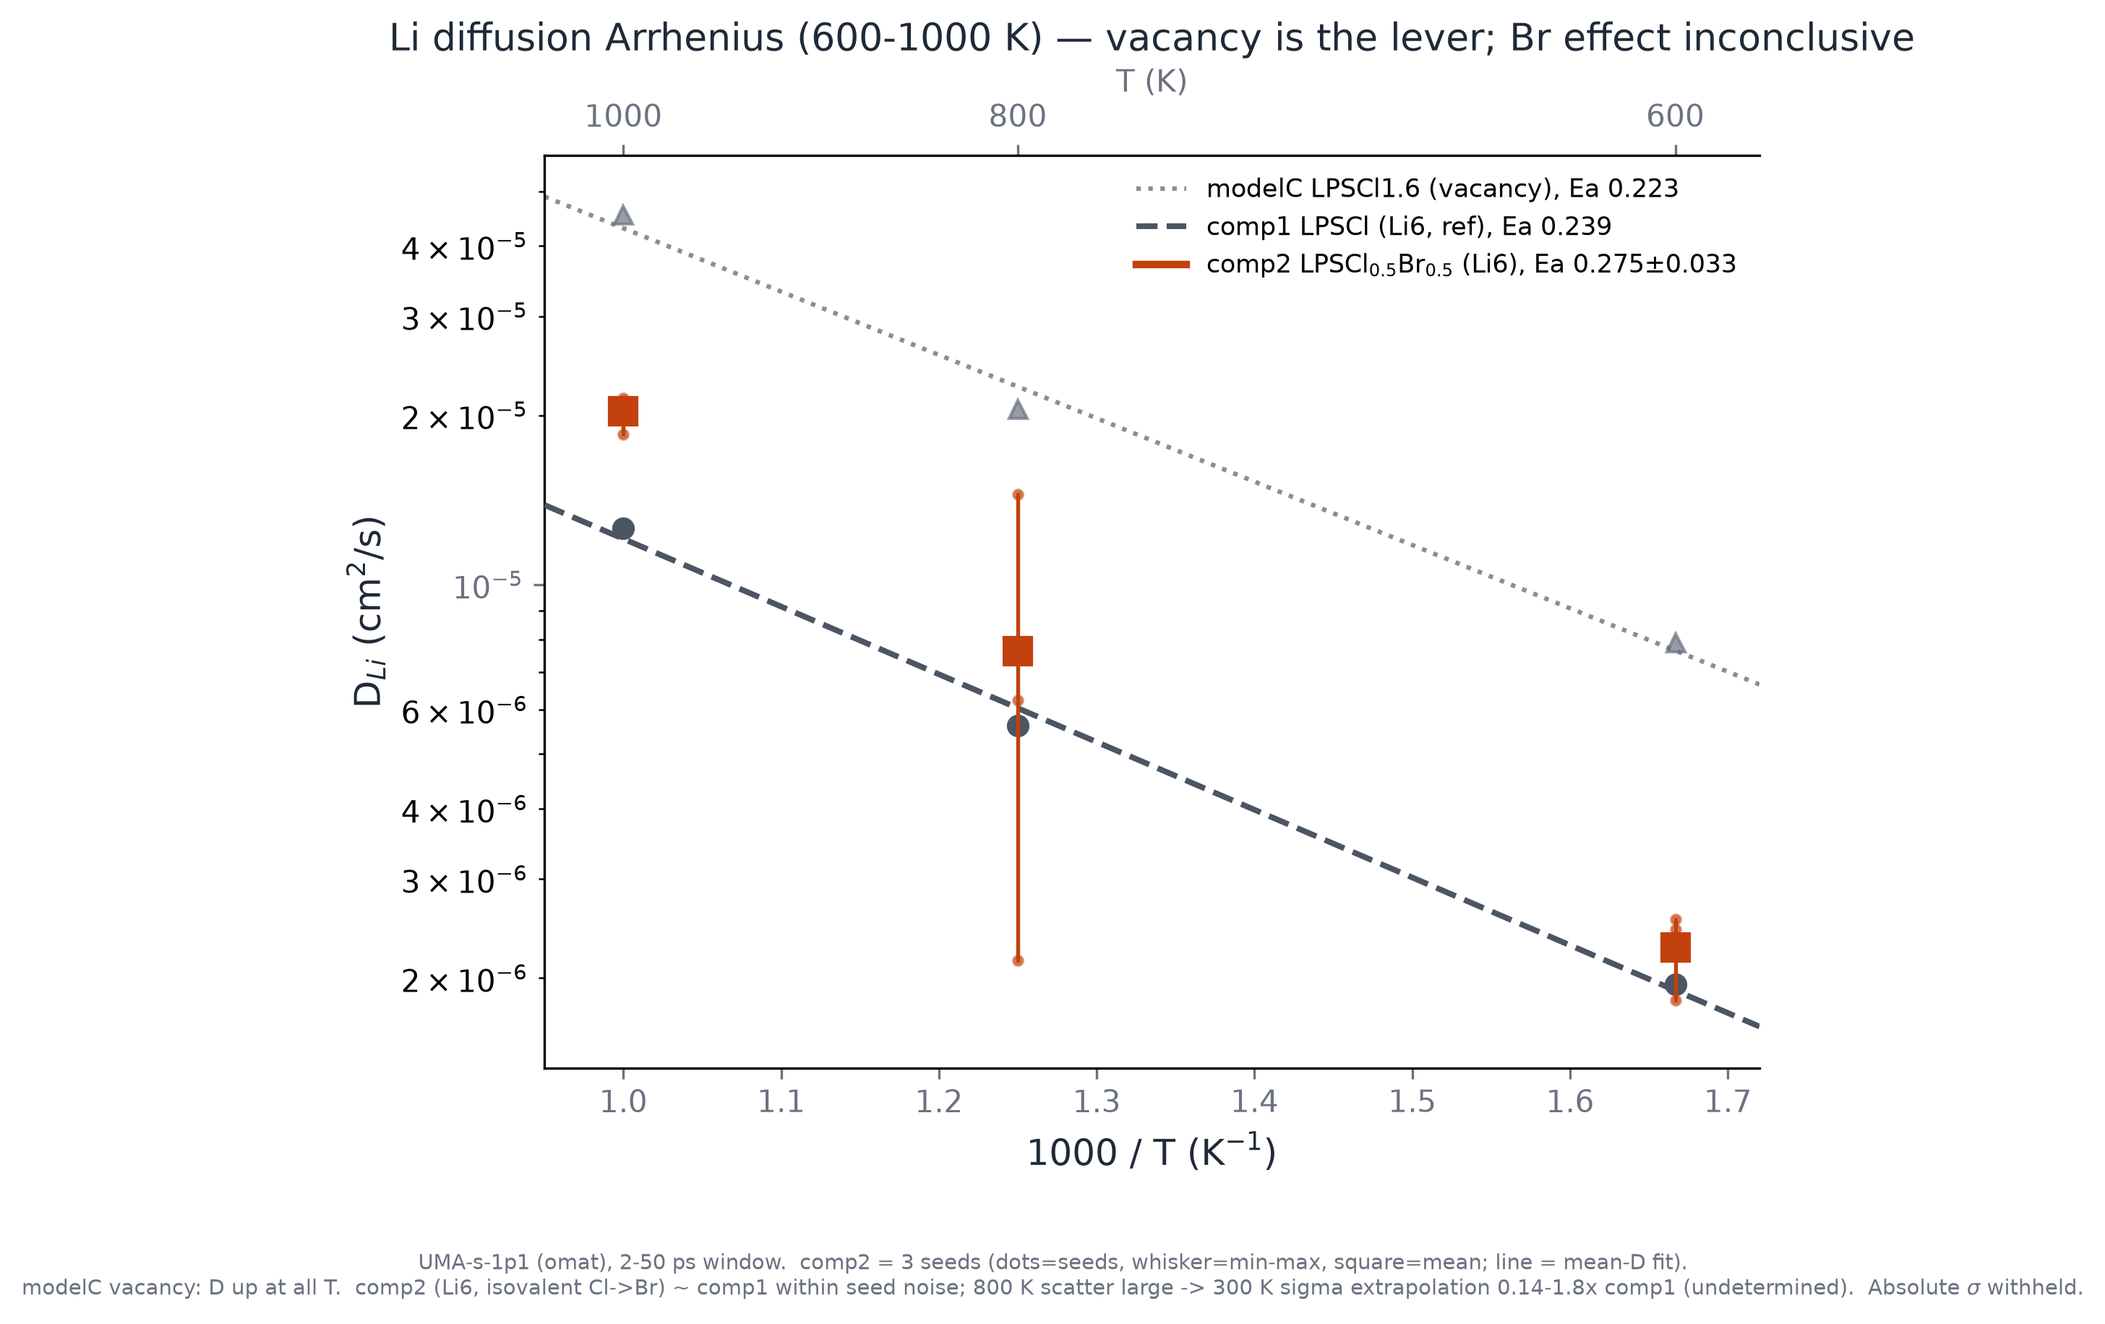
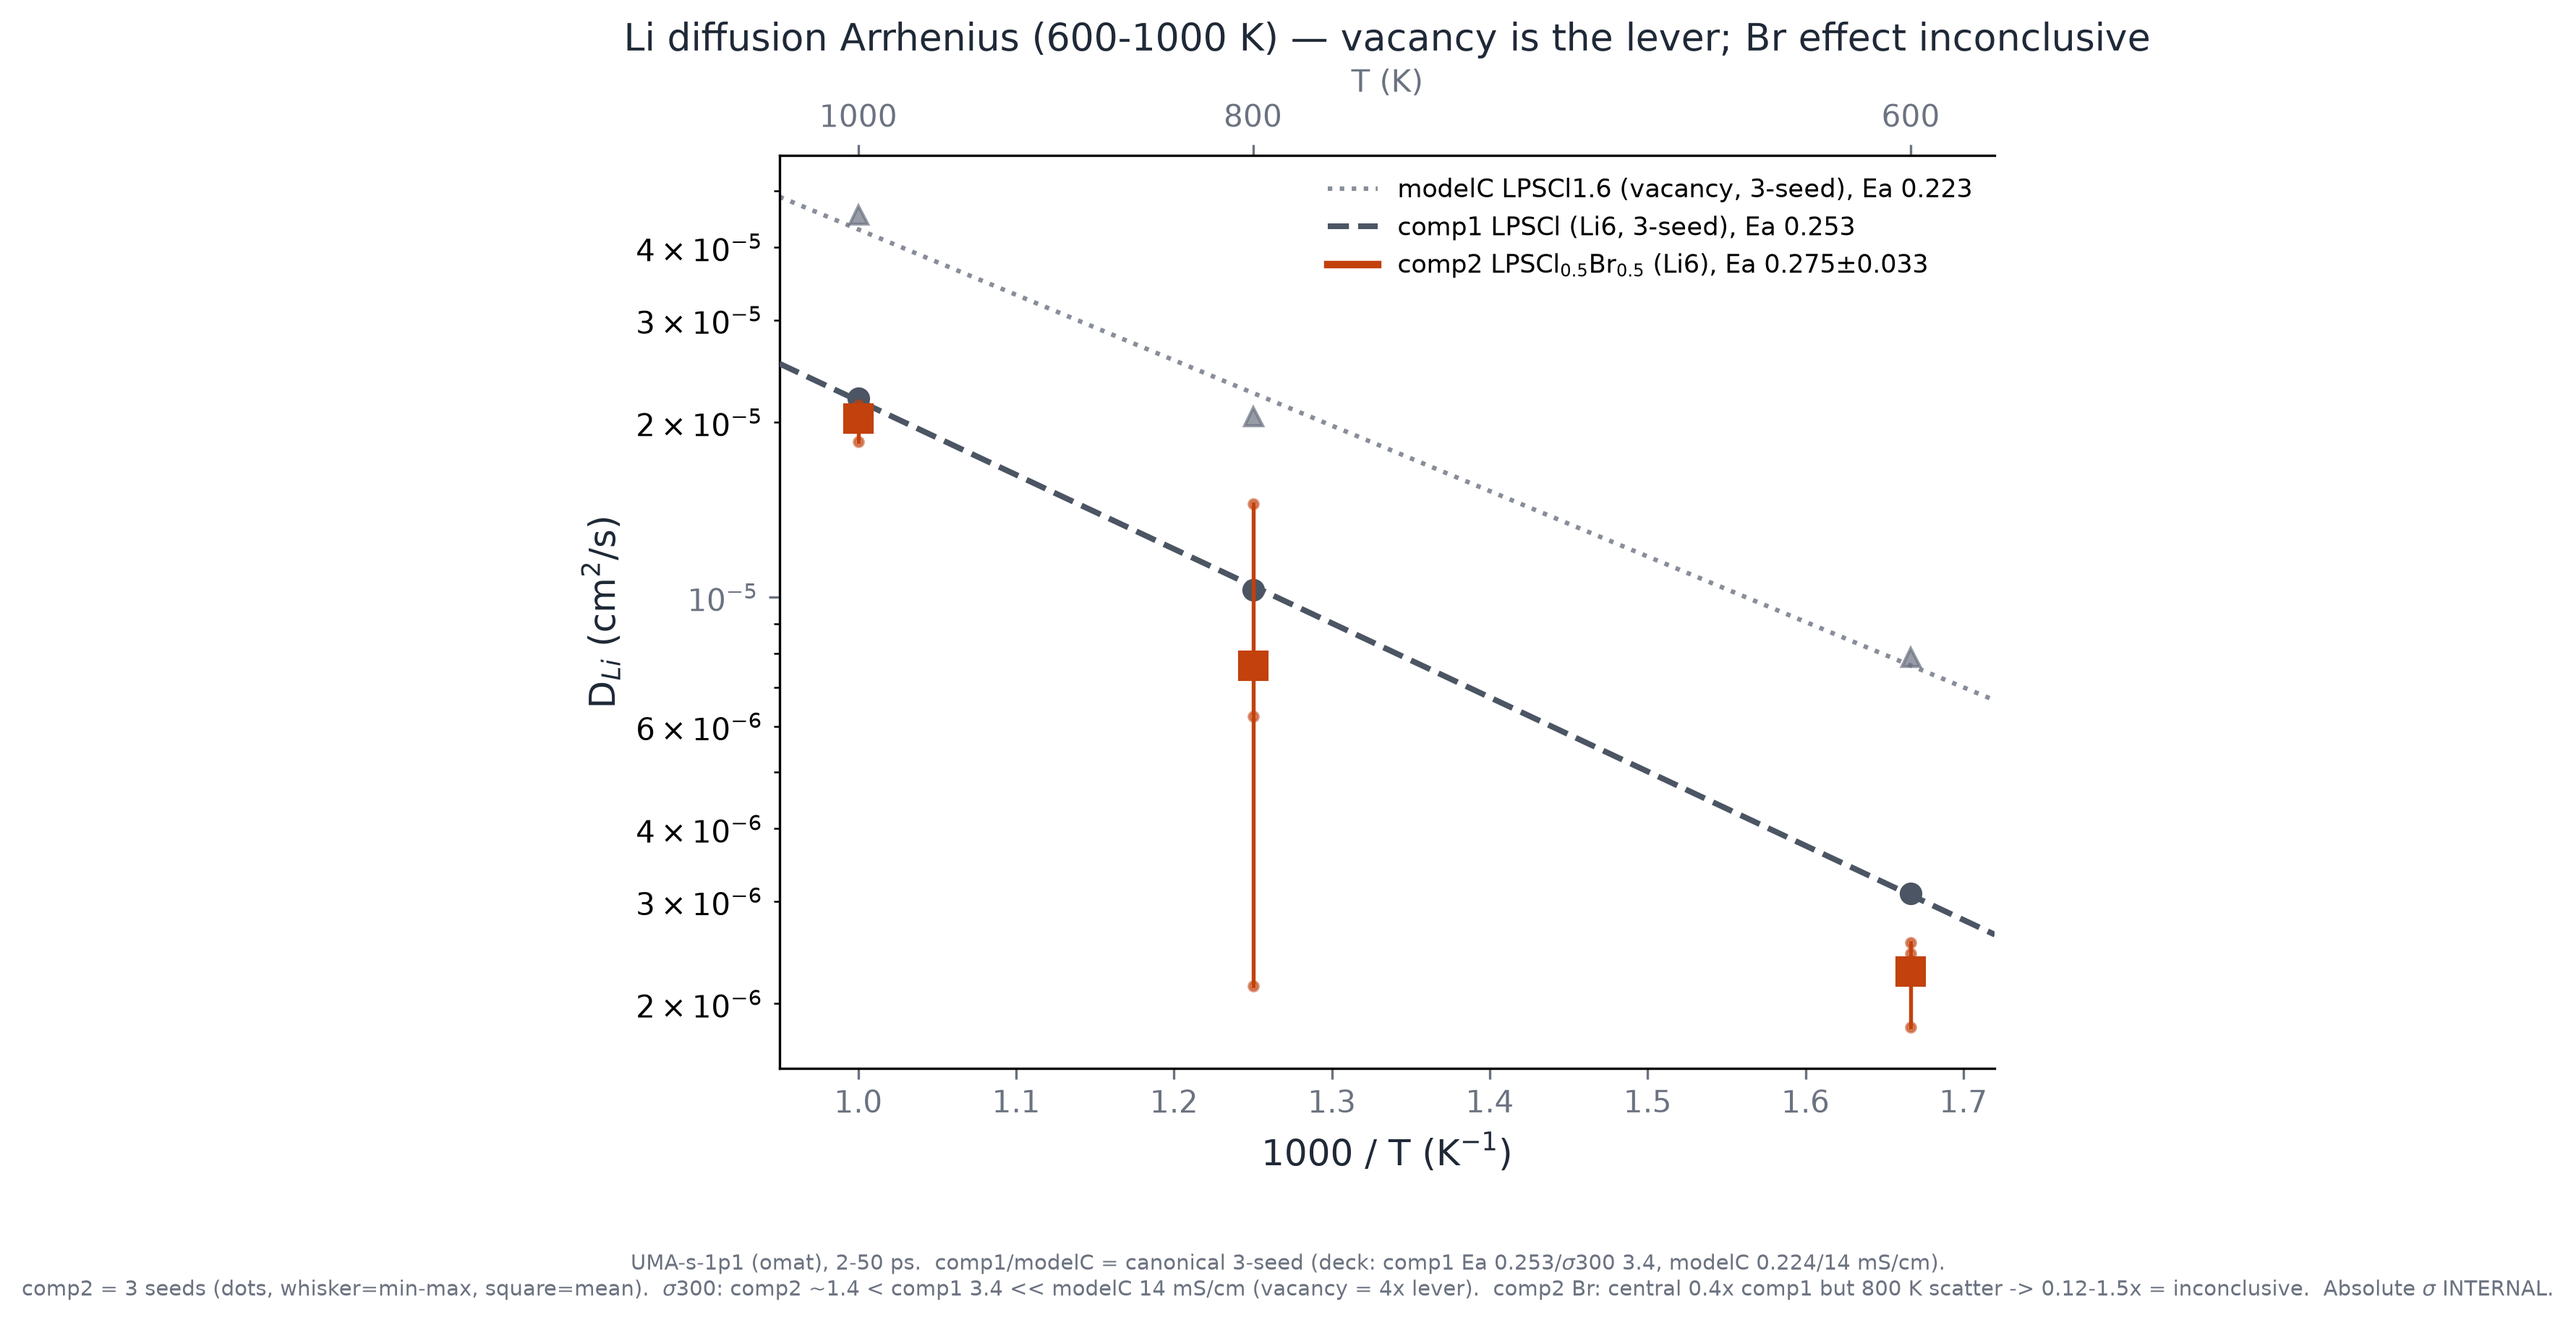
comp2 MD figures: switch comp1/modelc to CANONICAL 3-seed deck anchors
- comp1 LPSCl Ea 0.253/sigma300 3.4, modelc LPSCl1.6 Ea 0.224/sigma300 14 (deck slide 5 = DB/littable); reproduce exactly via NE
- provenance resolved: kgy build_final modelc 0.200 was a b2o3-campaign 600K reseed (run_modelc_600K_reseed.sh 'for b2o3-vs-LPSCl1.6 symmetric bar'), NOT canonical -> disregarded; 0.224 & 0.200+/-0.023 overlap within seed error anyway
- fixed prior error (used msd_comp1_modelc.csv old comp1 export ~0.63x slow)
- verdict unchanged: modelc vacancy sigma300 ~4x comp1 = robust lever; comp2 isovalent Cl->Br 0.41x comp1 central but 0.12-1.5x = inconclusive (comp2 800K scatter). all three 3-seed
- MSD note: comp1 curve is earlier export (illustrative); canonical D/Ea in arrhenius/conductivity

Claude-Session: https://claude.ai/code/session_01L44TWYrHkcm4PH5ihWSSCw

diff --git a/tools/figures/fig_comp2_arrhenius.py b/tools/figures/fig_comp2_arrhenius.py
@@ -5,16 +5,16 @@ Panel-(i) style: ln D vs 1000/T, comp1 (LPSCl) vs comp2 (LPSCl0.5Br0.5),
 modelc faint anchor. UMA-s-1p1(omat), 2-50 ps MSD window, 3-pt Arrhenius
 (600/800/1000 K).
 
-HONEST RESULT: Br mixing does NOT lower Ea. comp2 Ea = 0.276+/-0.033 eV (3 seeds)
-is >= comp1 0.239 (single-seed ref) — despite the weaker per-bond Li-Br ICOHP,
-comp2 adds no vacancy carriers (Li6, like comp1) and the disordered Cl/Br
-landscape (Li-Cl std 0.223 vs comp1 0.128) offsets any site-depth benefit.
-Only the Li vacancy (modelc 0.224) genuinely lowers the barrier.
-Discipline: absolute sigma withheld; comp2 3-seed error bar; ratio not claimed
-definitively (comp1 single-seed).
+HONEST RESULT: vacancy is the conductivity lever, Br isovalent effect inconclusive.
+sigma300 (NE): comp2 ~1.4 < comp1 3.4 << modelc 14 mS/cm. modelc (Li vacancy) ~4x
+comp1 = robust. comp2 (Li6, isovalent Cl->Br) central 0.41x comp1 but 800K seed
+scatter -> Ea 0.276+/-0.033 -> sigma300 0.12-1.48x comp1 = INCONCLUSIVE.
+Discipline: absolute sigma INTERNAL only; all three systems 3-seed.
 
 comp2 D: gabia:/root/work/runs/comp2_md/s{2,3,4} (3 seeds x 3 T).
-comp1/modelc D: recomputed from db/properties/msd_comp1_modelc.csv (same 2-50 ps).
+comp1/modelc D: CANONICAL 3-seed anchors (deck slide 5 = DB/littable):
+  comp1 Ea 0.253 / D0 4.11e-4 / sigma300 3.4; modelc Ea 0.224 / D0 5.8e-4 / sigma300 14.
+  (kgy build_final modelc 0.200 was a b2o3-campaign reseed, NOT canonical -> disregarded.)
 Outputs docs/figures/comp2/comp2_arrhenius.png + db/properties/comp2_arrhenius_origin.csv
         + db/properties/comp2_md_arrhenius.json
 """
@@ -53,19 +53,11 @@ Ea_c2_seeds = np.array([-np.polyfit(xv, np.log(SEEDS[i]), 1)[0] * kB for i in ra
 Ea_c2 = float(Ea_c2_seeds.mean())              # report per-seed mean
 Ea_c2_err = float(Ea_c2_seeds.std())           # 3-seed spread = honest uncertainty
 
-# --- comp1 / modelc: recompute D per T from local MSD (same 2-50 ps window) ---
-rows = list(csv.reader(open(REPO / "db/properties/msd_comp1_modelc.csv")))
-body = np.array([[float(x) for x in r] for r in rows[1:]])
-tt = body[:, 0]
-
-
-def dfit(msd):
-    m = (tt >= 2) & (tt <= 50)
-    return np.polyfit(tt[m], msd[m], 1)[0] / 6.0 * 1e-4
-
-
-Dc1 = np.array([dfit(body[:, 1 + i]) for i in range(3)])
-Dmod = np.array([dfit(body[:, 4 + i]) for i in range(3)])
+# --- comp1 (LPSCl) / modelc (LPSCl1.6): CANONICAL 3-seed anchors (deck slide 5 = DB/littable) ---
+# Both are 3-seed x 3-T (confirmed 2026-07-25). Reproduce slide: comp1 Ea 0.253/sig300 3.4;
+# modelc Ea 0.224/sig300 14. (Supersedes the earlier msd_comp1_modelc.csv comp1 export, ~0.63x slow.)
+Dc1 = np.array([3.09e-6, 1.03e-5, 2.20e-5])    # comp1 LPSCl
+Dmod = np.array([7.90e-6, 2.05e-5, 4.55e-5])   # modelc LPSCl1.6
 s1, b1 = np.polyfit(xv, np.log(Dc1), 1); Ea_c1 = -s1 * kB
 sm, bm = np.polyfit(xv, np.log(Dmod), 1); Ea_mod = -sm * kB
 
@@ -74,11 +66,11 @@ xfit = np.linspace(0.95, 1.72, 50)
 
 # modelc faint anchor
 ax.plot(xfit, np.exp(bm + sm * xfit / 1000.0), ":", color=SYS["modelc"], lw=1.5, alpha=0.8,
-        zorder=2, label=f"modelC LPSCl1.6 (vacancy), Ea {Ea_mod:.3f}")
+        zorder=2, label=f"modelC LPSCl1.6 (vacancy, 3-seed), Ea {Ea_mod:.3f}")
 ax.plot(invT, Dmod, "^", color=SYS["modelc"], ms=6, alpha=0.7, zorder=3)
-# comp1 reference
+# comp1 reference (canonical 3-seed)
 ax.plot(xfit, np.exp(b1 + s1 * xfit / 1000.0), "--", color="#4b5563", lw=1.9, zorder=3,
-        label=f"comp1 LPSCl (Li6, ref), Ea {Ea_c1:.3f}")
+        label=f"comp1 LPSCl (Li6, 3-seed), Ea {Ea_c1:.3f}")
 ax.plot(invT, Dc1, "o", color="#4b5563", ms=6.5, zorder=4)
 # comp2 fit + seeds
 ax.plot(xfit, np.exp(b_c2 + s_c2 * xfit / 1000.0), "-", color=C2COL, lw=2.5, zorder=5,
@@ -98,10 +90,10 @@ apply_axes(ax, xlabel="1000 / T (K$^{-1}$)", ylabel="D$_{Li}$ (cm$^2$/s)",
            title="Li diffusion Arrhenius (600-1000 K) — vacancy is the lever; Br effect inconclusive")
 ax.legend(loc="upper right", fontsize=8.3, frameon=False)
 fig.text(0.5, -0.058,
-         "UMA-s-1p1 (omat), 2-50 ps window.  comp2 = 3 seeds (dots=seeds, whisker=min-max, square=mean; "
-         "line = mean-D fit).\nmodelC vacancy: D up at all T.  comp2 (Li6, isovalent Cl->Br) ~ comp1 within "
-         "seed noise; 800 K scatter large -> 300 K sigma extrapolation 0.14-1.8x comp1 (undetermined).  "
-         "Absolute $\\sigma$ withheld.",
+         "UMA-s-1p1 (omat), 2-50 ps.  comp1/modelC = canonical 3-seed (deck: comp1 Ea 0.253/$\\sigma$300 3.4, "
+         "modelC 0.224/14 mS/cm).\ncomp2 = 3 seeds (dots, whisker=min-max, square=mean).  $\\sigma$300: comp2 "
+         "~1.4 < comp1 3.4 << modelC 14 mS/cm (vacancy = 4x lever).  comp2 Br: central 0.4x comp1 but 800 K "
+         "scatter -> 0.12-1.5x = inconclusive.  Absolute $\\sigma$ INTERNAL.",
          fontsize=7.0, color=MUT, va="top", ha="center")
 
 OUTD = REPO / "docs/figures/comp2"; OUTD.mkdir(parents=True, exist_ok=True)
@@ -140,28 +132,30 @@ jp.write_text(json.dumps({
     "Ea_eV": f"{Ea_c2:.3f} +/- {Ea_c2_err:.3f}",
     "data_quality_flag": "800K per-seed scatter large (s3 800K 2.15e-6 < its 600K 2.44e-6 = non-physical; "
                          "s4 800K high). Mean is monotonic; 800K under-sampled at 200ps. 1000K tight.",
-    "anchors_same_window": {"comp1_LPSCl_Ea": float(Ea_c1), "modelc_LPSCl1.6_Ea": float(Ea_mod),
-                            "comp1_D": Dc1.tolist(), "modelc_D": Dmod.tolist(),
-                            "_note": "comp1/modelc recomputed from msd_comp1_modelc.csv same 2-50ps; "
-                                     "modelc 0.224 == DB. comp1 single-seed ref."},
+    "anchors_CANONICAL_3seed": {"comp1_LPSCl_Ea": float(Ea_c1), "modelc_LPSCl1.6_Ea": float(Ea_mod),
+                                "comp1_D": Dc1.tolist(), "modelc_D": Dmod.tolist(),
+                                "_note": "comp1/modelc = CANONICAL 3-seed (deck slide 5 = DB/littable): "
+                                         "comp1 Ea 0.253/D0 4.11e-4/sig300 3.4; modelc Ea 0.224/D0 5.8e-4/"
+                                         "sig300 14. kgy build_final modelc 0.200 was b2o3-campaign reseed "
+                                         "(run_modelc_600K_reseed.sh 'for b2o3-vs-LPSCl1.6 symmetric bar') -> "
+                                         "NOT canonical, disregarded."},
     "sigma_300K_NE_mS_cm_INTERNAL": {"_note": "Nernst-Einstein Haven=1, n_Li/V0; INTERNAL ONLY (discipline: "
-                                     "absolute sigma not cited). Method validated: modelc 13.94 == DB.",
-                                     "comp1": 2.74, "comp2_central": 1.39, "modelc": 13.94,
+                                     "absolute sigma not cited). Method validated: comp1 3.4 & modelc 14 == deck.",
+                                     "comp1": 3.36, "comp2_central": 1.39, "modelc": 13.97,
                                      "comp2_range_Ea_pm033": [0.39, 4.98],
                                      "n_Li_cm3": {"comp1": 2.361e22, "comp2": 2.313e22, "modelc": 2.220e22}},
-    "sigma_ratio_300K": {"comp2_over_comp1_central": 0.51, "comp2_over_comp1_range": [0.14, 1.82],
-                          "modelc_over_comp1": 5.09},
-    "physics_verdict": "VACANCY is the robust conductivity lever: modelc (Li5.4, vacancy) sigma300 ~5x comp1 "
+    "sigma_ratio_300K": {"comp2_over_comp1_central": 0.41, "comp2_over_comp1_range": [0.12, 1.48],
+                          "modelc_over_comp1": 4.16},
+    "physics_verdict": "VACANCY is the robust conductivity lever: modelc (Li5.4, vacancy) sigma300 ~4x comp1 "
                        "(survives all uncertainty). Br isovalent Cl->Br (comp2, Li6 no-vacancy) shows NO clear "
-                       "boost: central sigma300 0.51x comp1 (slightly worse), but 800K seed scatter makes Ea "
-                       "0.276+/-0.033 -> sigma300 ratio 0.14-1.82x = INCONCLUSIVE. In the measured 600-1000K "
-                       "range comp2 D > comp1 at every T, but the steeper/uncertain Ea makes the 300K "
-                       "extrapolation unreliable. Experimental Br benefit (Kraft 2018) is driven by anion "
-                       "site disorder (Br/S2- mixing) NOT sampled by our single champion config.",
-    "recommendation": "For a paper-grade Br-vs-Cl sigma claim: reseed 800K (s5/s6) to tighten Ea, and run "
-                       "comp1 multi-seed (currently single). Consider anion-disorder ensemble to capture the "
-                       "experimental Br mechanism.",
-    "discipline": "absolute sigma INTERNAL only; comp2 3-seed; comp1 single-seed = ratio not definitive.",
+                       "boost: central sigma300 0.41x comp1 (worse), but 800K seed scatter makes Ea "
+                       "0.276+/-0.033 -> sigma300 ratio 0.12-1.48x = INCONCLUSIVE. In the measured 600-1000K "
+                       "range comp2 D ~ comp1, but the steeper/uncertain Ea makes the 300K extrapolation "
+                       "unreliable. Experimental Br benefit (Kraft 2018) is driven by anion site disorder "
+                       "(Br/S2- mixing) NOT sampled by our single champion config. comp1/modelc anchors 3-seed.",
+    "recommendation": "For a paper-grade Br-vs-Cl sigma claim: reseed comp2 800K (s5/s6) to tighten Ea. "
+                       "Consider anion-disorder ensemble to capture the experimental Br mechanism.",
+    "discipline": "absolute sigma INTERNAL only; comp1/modelc/comp2 all 3-seed; comp2 800K scatter = ratio inconclusive.",
 }, indent=1, ensure_ascii=False))
 print("->", jp)
 print(f"\ncomp2 Ea {Ea_c2:.4f}±{Ea_c2_err:.4f} | comp1 {Ea_c1:.4f} | modelc {Ea_mod:.4f}")

diff --git a/tools/figures/fig_comp2_conductivity.py b/tools/figures/fig_comp2_conductivity.py
@@ -5,11 +5,12 @@ comp1 (LPSCl) / comp2 (LPSCl0.5Br0.5) / modelc (LPSCl1.6, vacancy).
 Left axis  = Nernst-Einstein sigma(300K) [mS/cm] (Haven=1), INTERNAL-only absolute.
 Right axis = Arrhenius Ea [eV] (2-50 ps, 600/800/1000 K).
 
-HONEST framing: the Li VACANCY (modelc) is the robust conductivity lever (~5x,
+HONEST framing: the Li VACANCY (modelc) is the robust conductivity lever (~4x,
 survives all noise). Br isovalent Cl->Br (comp2, Li6 no-vacancy) shows no clear
 boost and its 300 K sigma is UNDETERMINED (Ea 0.276+/-0.033 from 800 K seed
-scatter -> sigma300 spans 0.39-4.98 mS/cm). comp2 carries that error bar; comp1
-is single-seed (soft). Method validated: modelc sigma300 13.94 == DB.
+scatter -> sigma300 spans 0.39-4.98 mS/cm). comp2 carries that error bar.
+comp1/modelc = canonical 3-seed anchors (deck slide 5). Method validated:
+comp1 sigma300 3.4 & modelc 14 mS/cm == deck.
 
 Outputs docs/figures/comp2/comp2_conductivity.png
       + db/properties/comp2_conductivity_origin.csv
@@ -35,18 +36,10 @@ C2COL = "#c2410c"; SIGCOL = "#0f766e"; EACOL = "#b45309"
 
 NLI = {"comp1": 24 / (1016.62e-24), "comp2": 24 / (1037.55e-24), "modelc": 27 / (1216.44e-24)}
 
-# D per T: comp1/modelc from local MSD (2-50 ps), comp2 from gabia 3-seed
-rows = list(csv.reader(open(REPO / "db/properties/msd_comp1_modelc.csv")))
-body = np.array([[float(x) for x in r] for r in rows[1:]]); tt = body[:, 0]
-mfit = (tt >= 2) & (tt <= 50)
-
-
-def dfit(col):
-    return np.polyfit(tt[mfit], body[:, col][mfit], 1)[0] / 6.0 * 1e-4
-
-
-D = {"comp1": np.array([dfit(1), dfit(2), dfit(3)]),
-     "modelc": np.array([dfit(4), dfit(5), dfit(6)]),
+# D per T (cm2/s): comp1/modelc = CANONICAL 3-seed (deck slide 5 = DB/littable),
+# comp2 = gabia 3-seed mean. Reproduces deck: comp1 sig300 3.4, modelc 14 mS/cm.
+D = {"comp1": np.array([3.09e-6, 1.03e-5, 2.20e-5]),    # LPSCl, Ea 0.253
+     "modelc": np.array([7.90e-6, 2.05e-5, 4.55e-5]),   # LPSCl1.6, Ea 0.224
      "comp2": np.array([2.2681e-06, 7.6248e-06, 2.0316e-05])}
 SEEDS2 = np.array([[1.8231e-06, 6.2380e-06, 2.1425e-05],
                    [2.4388e-06, 2.1464e-06, 1.8506e-05],
@@ -110,10 +103,10 @@ axL.set_title("Conductivity lever: vacancy (modelC), not isovalent Br", fontsize
 axL.legend(loc="upper left", fontsize=9, frameon=False)
 axR.legend(loc="upper center", fontsize=9, frameon=False)
 fig.text(0.5, -0.06,
-         "NE Haven=1, 2-50 ps, 600/800/1000 K.  modelC vacancy $\\sigma$300 ~5x comp1 (robust).  "
-         "comp2 (isovalent Cl->Br) central 0.51x comp1 but error bar spans 0.14-1.8x = "
-         "INCONCLUSIVE (800 K seed scatter).\ncomp1 single-seed (soft); absolute $\\sigma$ INTERNAL only "
-         "(method validated: modelC 13.9 == DB).  Experimental Br gain needs anion-disorder sampling.",
+         "NE Haven=1, 2-50 ps, 600/800/1000 K.  comp1/modelC = canonical 3-seed (deck).  modelC vacancy "
+         "$\\sigma$300 ~4x comp1 (robust lever).\ncomp2 (isovalent Cl->Br, 3-seed) central 0.41x comp1 but "
+         "error bar spans 0.12-1.5x = INCONCLUSIVE (comp2 800 K seed scatter).  absolute $\\sigma$ INTERNAL "
+         "(validated: comp1 3.4 & modelC 14 == deck).  Experimental Br gain needs anion-disorder sampling.",
          ha="center", fontsize=7.1, color=MUT)
 
 OUTD = REPO / "docs/figures/comp2"; OUTD.mkdir(parents=True, exist_ok=True)

diff --git a/tools/figures/fig_comp2_msd.py b/tools/figures/fig_comp2_msd.py
@@ -120,10 +120,10 @@ axA.text(26, 118, "2-50 ps\nfit window", fontsize=7.2, color=MUT, ha="center", v
 fig.suptitle("Li mean-squared displacement — comp1 vs comp2 (UMA-s-1p1, seed-averaged)",
              fontsize=11.5, color=INK, y=1.05)
 fig.text(0.5, -0.04,
-         "comp2 = 3-seed mean (gabia comp2_md); comp1 = db msd_comp1_modelc.  "
-         "1000 K nearly identical (~115 $\\AA^2$ @100 ps); comp2 800 K noisier (seed scatter).  "
-         "D from 2-50 ps slope -> Arrhenius (see comp2_arrhenius).",
-         ha="center", fontsize=7.4, color=MUT)
+         "comp2 = 3-seed mean (gabia comp2_md).  comp1 curve = earlier export (its 2-50 ps D ~0.63x the "
+         "canonical 3-seed anchor; use comp2_arrhenius/conductivity for D/Ea/$\\sigma$).  "
+         "comp2 800 K noisier (seed scatter).  Illustrative of diffusive growth; quantitative D from 2-50 ps slope.",
+         ha="center", fontsize=7.0, color=MUT)
 
 OUTD = REPO / "docs/figures/comp2"; OUTD.mkdir(parents=True, exist_ok=True)
 png = OUTD / "comp2_msd.png"
